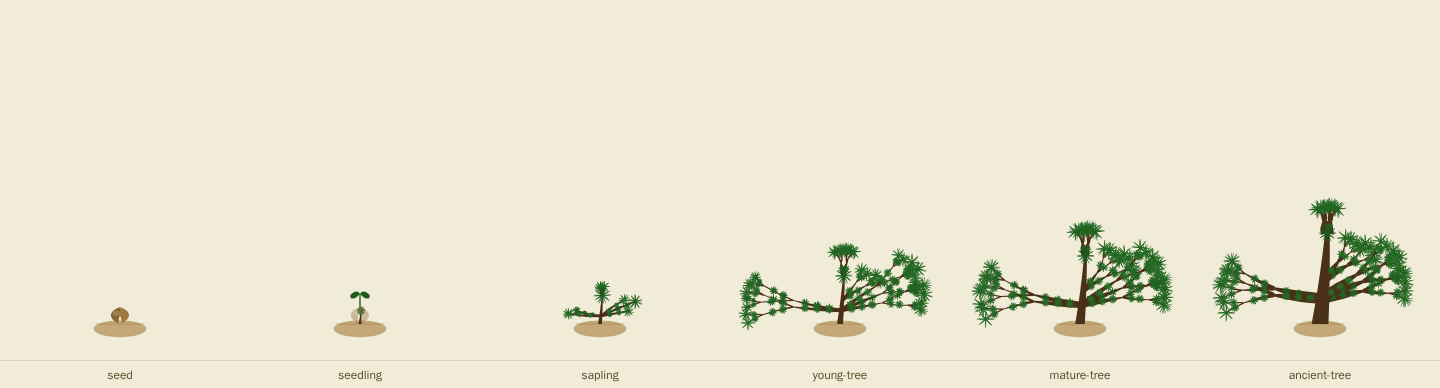
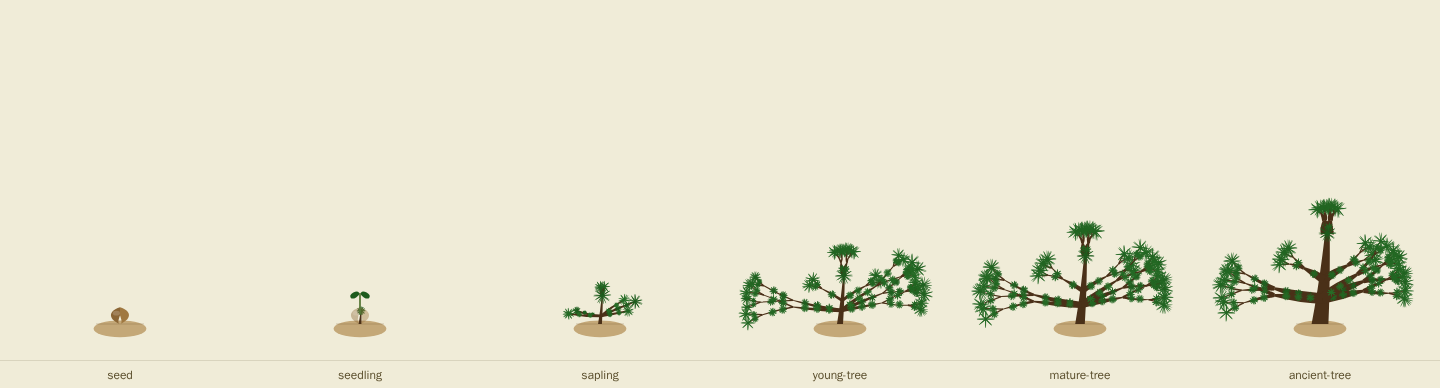
fix(bonsai): spread partial whorls evenly around trunk axis
Partial final whorls (e.g. 2 branches left when whorlSize=5) were using
whorlSize as the divisor, placing both branches within a 72° arc. Using
branchesAtNode as the divisor ensures any whorl — full or partial — spaces
its branches evenly around the full 360°.

Changed region(s): [[0.875, 0.5876, 0.9688, 0.7113], [0.7188, 0.6186, 0.7812, 0.7423], [0.5312, 0.6804, 0.625, 0.7732]]

diff --git a/src/lib/bonsai/treeGenerator.ts b/src/lib/bonsai/treeGenerator.ts
@@ -623,8 +623,10 @@ export function generateTree(
       // Azimuth (yaw around trunk axis) — the key Phase 3 change
       let azimuth: number;
       if (phyllotaxy === "whorled") {
-        // k-th branch of the whorl, evenly spaced around 2π
-        const baseAzimuth = (k / whorlSize) * Math.PI * 2;
+        // k-th branch of the whorl, evenly spaced around 2π.
+        // Divide by branchesAtNode (not whorlSize) so partial final whorls
+        // still spread evenly — e.g. 2 leftover branches get 0° and 180°.
+        const baseAzimuth = (k / branchesAtNode) * Math.PI * 2;
         const azJitter = (seededVal(`az${id}${treeId}`, 0) - 0.5) * 0.3;
         azimuth = baseAzimuth + azJitter;
       } else if (phyllotaxy === "opposite") {